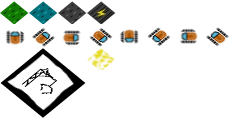
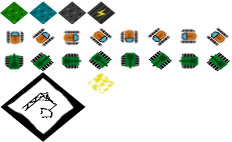
added new unit: tank

Changed region(s): [[0.0, 0.0, 0.5129, 1.0], [0.6336, 0.178, 0.9957, 0.5085], [0.5129, 0.2034, 0.6034, 0.4831]]

diff --git a/data/unitsdefinition.js b/data/unitsdefinition.js
@@ -17,10 +17,38 @@ UnitsDefinition = (function () {
             harvestSpeed: 2, // hitpoints per tick
             harvestEfficiency: 1.5, // gained resources per tick =
                                     // harvestSpeed * harvestEfficiency
+            firingSpeed: 0, // rate of fire = 1000 / 50 * (1 / tick duration)
+            attackPower: 0, // hitpoints damage to the target per attack
+            attackRange: 0, // the range (in adjusted tile units) at which the
+                            // unit may attack its target.
             race: 0,
             construction: { // total cost: 150, duration: 50 ticks
                 step: [6],
                 stepProgress: 40, // 25 steps (1000 is complete construction)
+                stepDuration: 1   // +1 for resource request
+            }
+        },
+        {
+            type: 1,
+            name: 'Tank',
+            image: 'data/images/units/tank/?.png',
+            speed: 50,
+            turnSpeed: 300,
+            hitpoints: 300, // how much damage can the unit take
+            colorify: '#007524',
+            colorifyDistance: 50,
+            resource: null,
+            harvestSpeed: 0, // hitpoints per tick
+            harvestEfficiency: 0, // gained resources per tick =
+                                  // harvestSpeed * harvestEfficiency
+            firingSpeed: 50, // rate of fire = 1000 / 50 * (1 / tick duration)
+            attackPower: 20, // hitpoints damage to the target per attack
+            attackRange: 3, // the range (in adjusted tile units) at which the
+                            // unit may attack its target.
+            race: 0,
+            construction: { // total cost: 100, duration: 40 ticks
+                step: [5],
+                stepProgress: 50, // 20 steps (1000 is complete construction)
                 stepDuration: 1   // +1 for resource request
             }
         }
